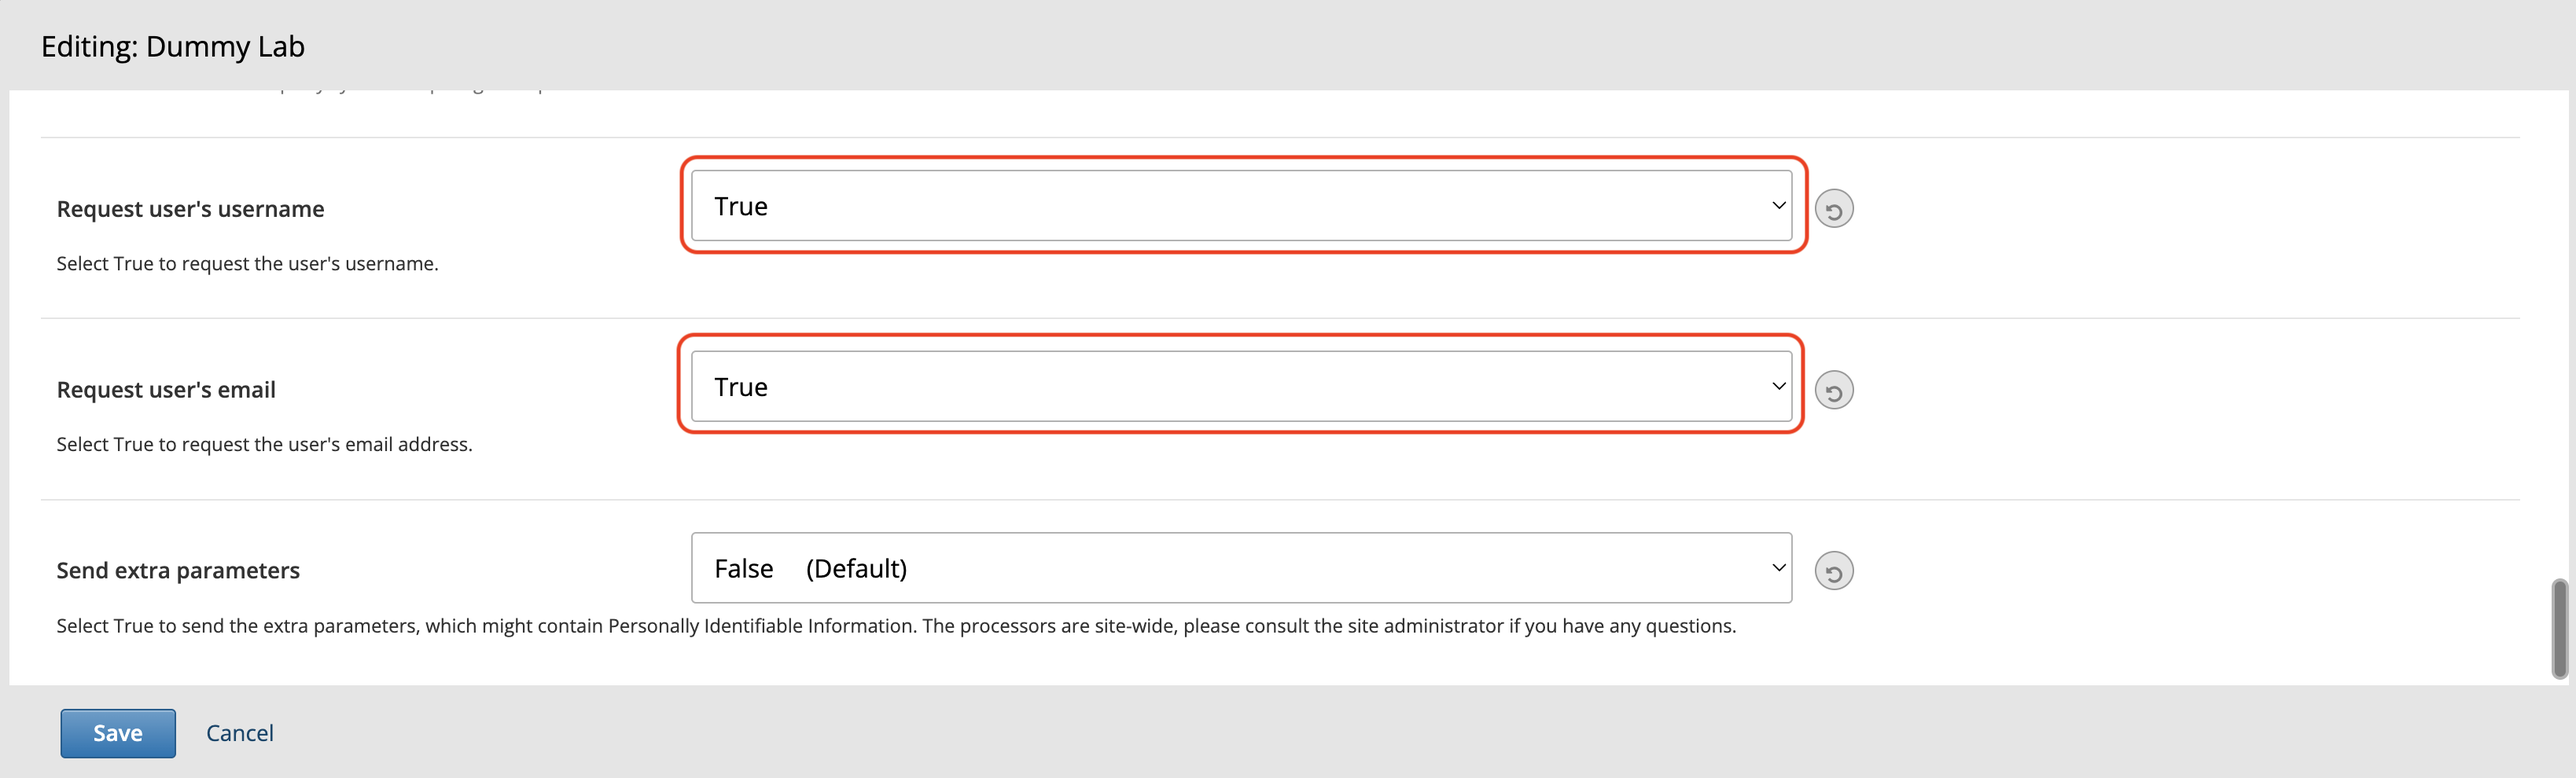
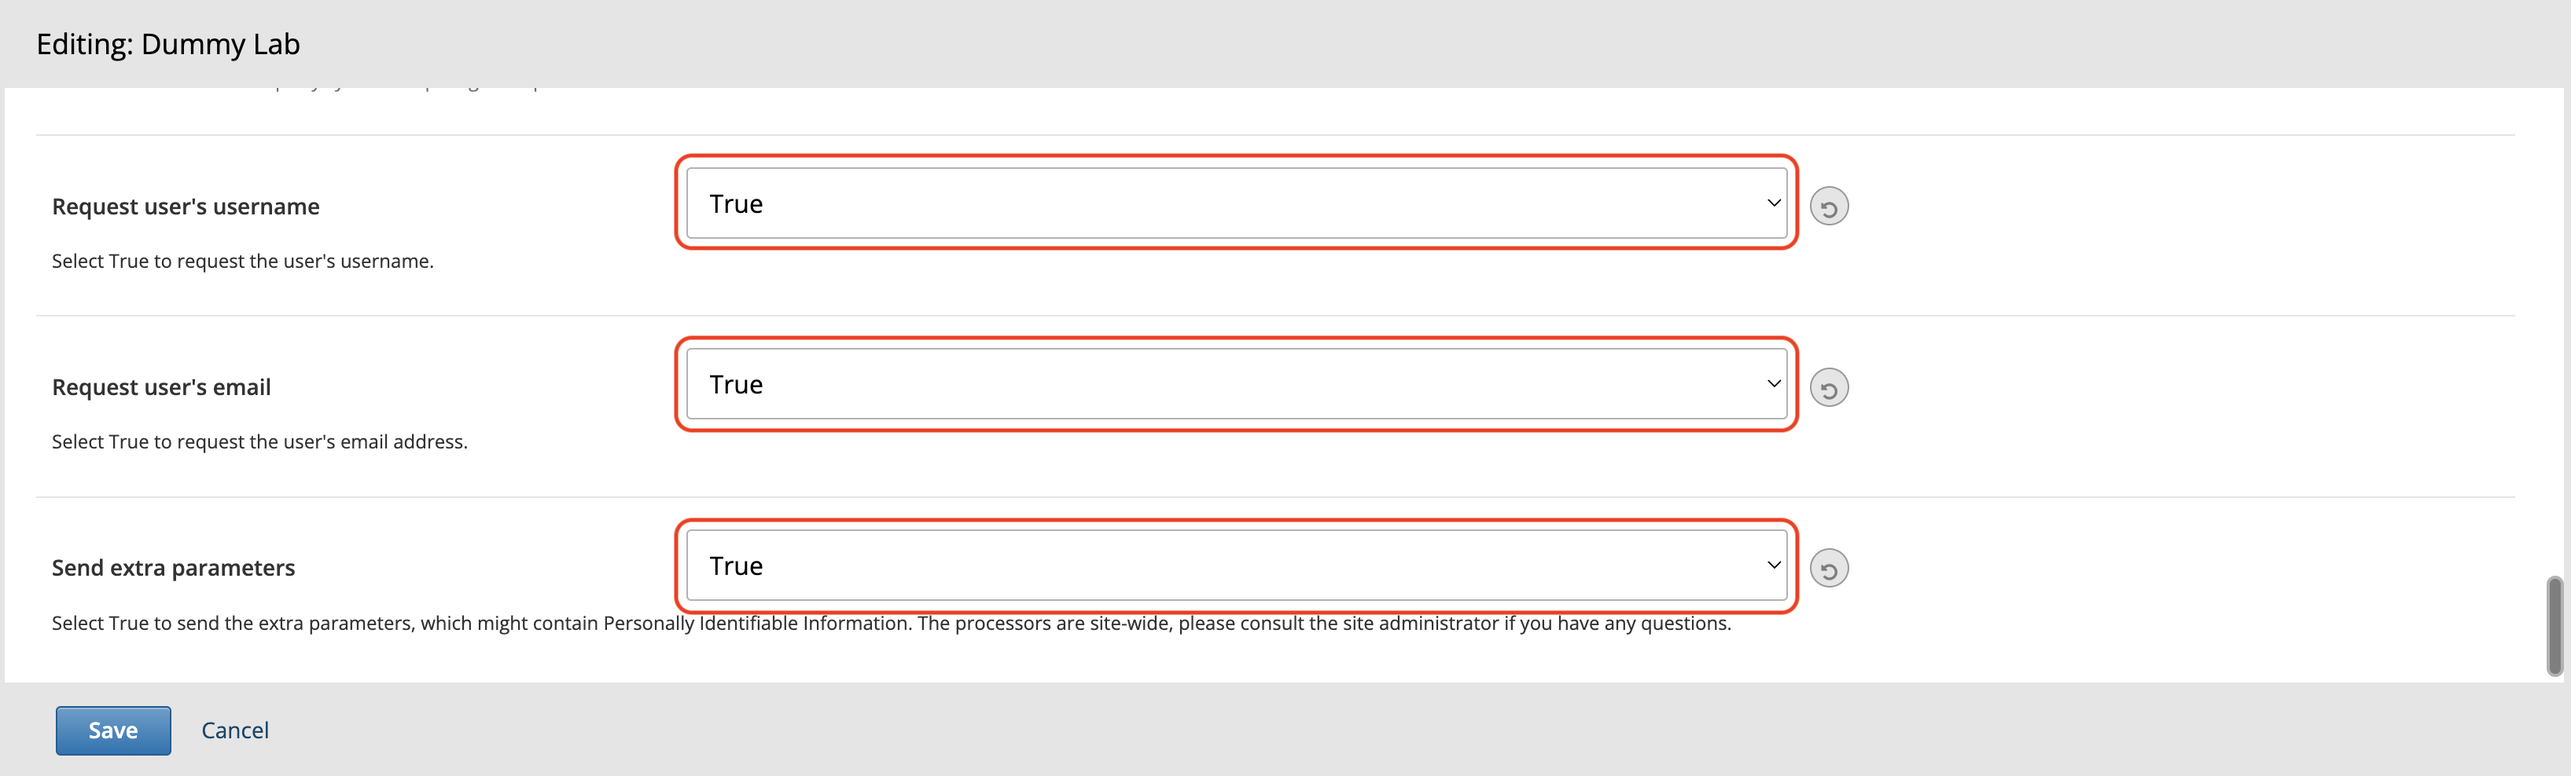
fix: set "Send extra params" to true

diff --git a/docs/labs/adding-labs-to-courses/add-a-lab-to-a-skills-network-course.md b/docs/labs/adding-labs-to-courses/add-a-lab-to-a-skills-network-course.md
@@ -134,6 +134,9 @@ To add a (non-instructional) lab to your course in **Studio**:
     <tr>
         <td> Request user's email </td> <td> <code>true</code> </td>
     </tr>
+    <tr>
+        <td> Send extra parameters </td> <td> <code>true</code> </td>
+    </tr>
 </table>
 
 ### Lab Launch Url

diff --git a/docs/labs/adding-labs-to-courses/add-a-lab-to-an-edx-org-course.md b/docs/labs/adding-labs-to-courses/add-a-lab-to-an-edx-org-course.md
@@ -131,6 +131,9 @@ To add a (non-instructional) lab to your course in **Studio**:
     <tr>
         <td> Request user's email </td> <td> <code>true</code> </td>
     </tr>
+    <tr>
+        <td> Send extra parameters </td> <td> <code>true</code> </td>
+    </tr>
 </table>
 
 ### Lab Launch Url
